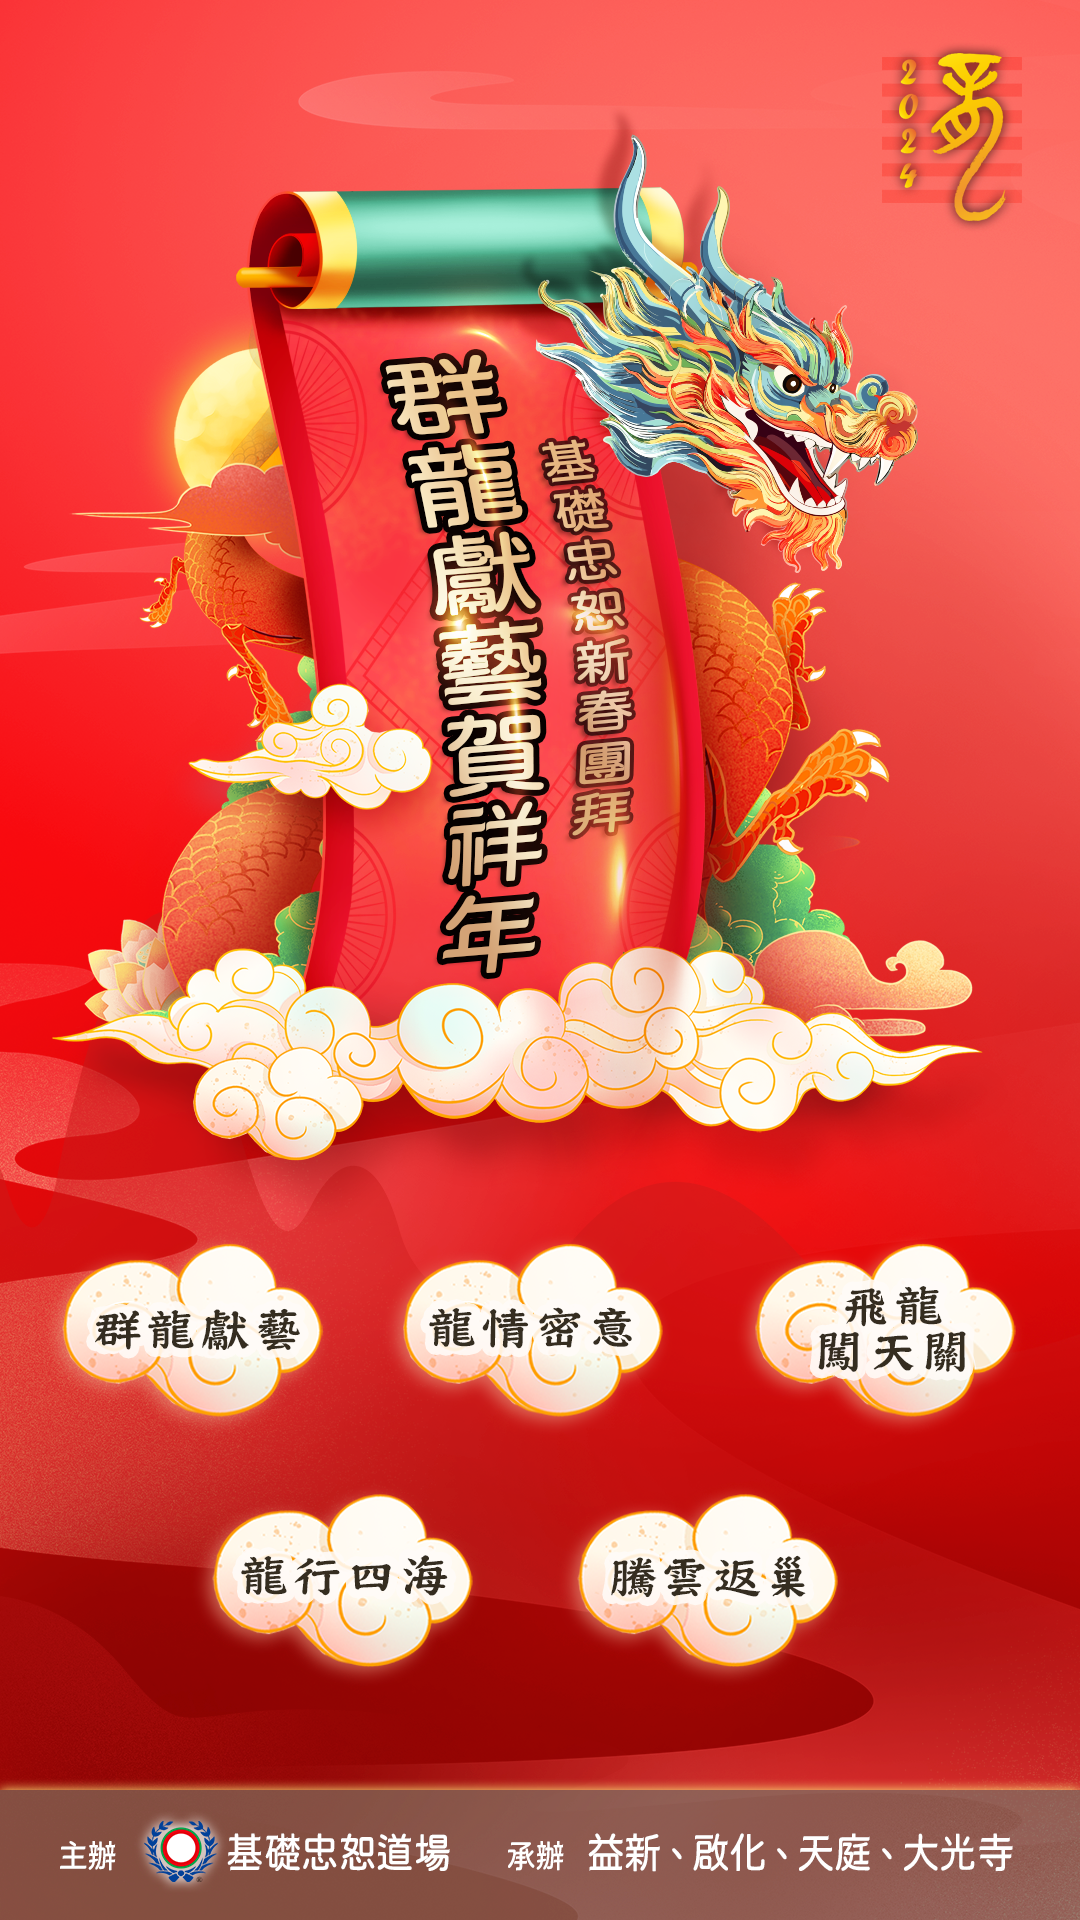
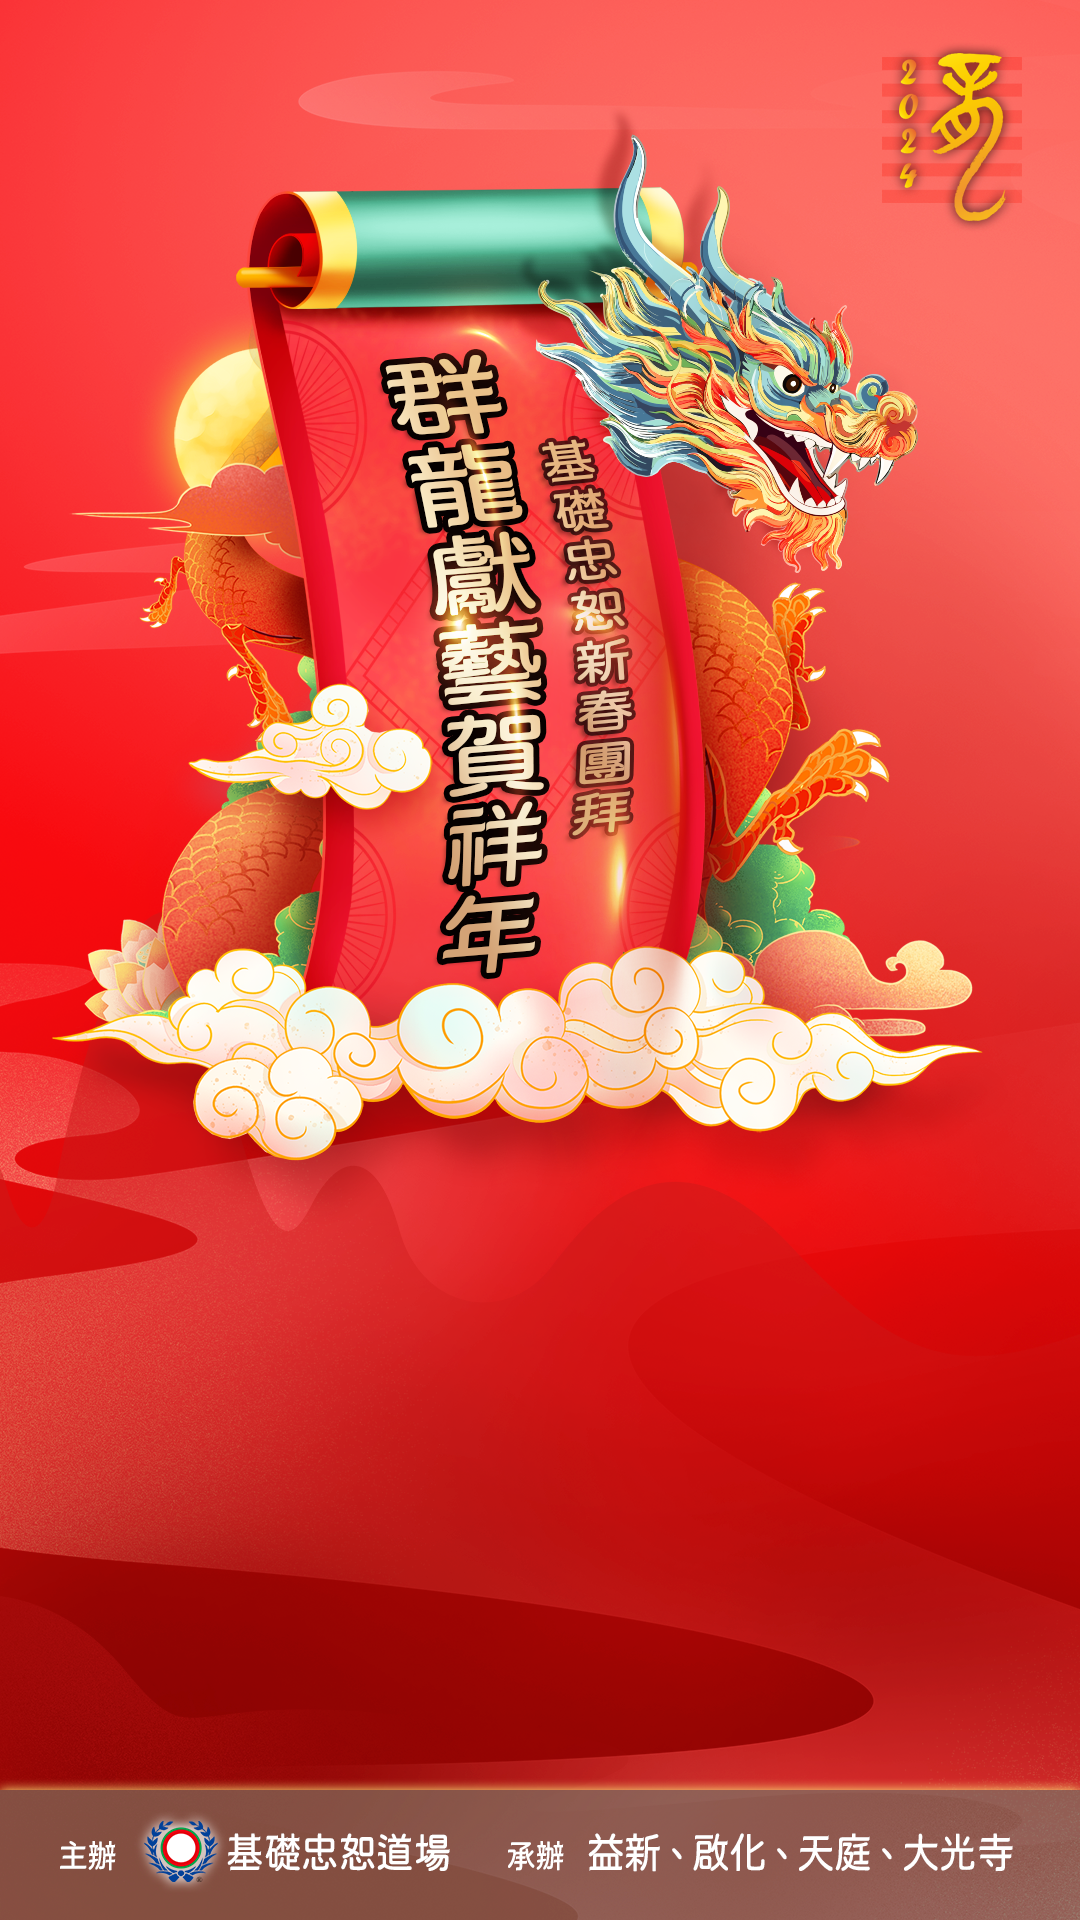
main page 2

diff --git a/index.html b/index.html
@@ -1,16 +1,35 @@
 <!DOCTYPE html>
-<!--
-To change this license header, choose License Headers in Project Properties.
-To change this template file, choose Tools | Templates
-and open the template in the editor.
--->
-<html>
-    <head>
-        <title>TODO supply a title</title>
-        <meta charset="UTF-8">
-        <meta name="viewport" content="width=device-width, initial-scale=1.0">
-    </head>
-    <body>
-      <img style={{width: 1080, height: 1920}} src="img/home_back.png" />
-    </body>
+<html lang="en">
+<head>
+    <meta charset="UTF-8">
+    <meta name="viewport" content="width=device-width, initial-scale=1.0">
+    <style>
+        body {
+            margin: 0;
+            padding: 0;
+            overflow: hidden;
+        }
+
+        .container {
+            width: 100vw;
+            height: 100vh;
+            display: flex;
+            align-items: center;
+            justify-content: center;
+            overflow: hidden;
+        }
+
+        .background-img {
+            width: 100%;
+            height: 100%;
+            object-fit: cover;
+        }
+    </style>
+    <title>群龍獻藝賀祥年</title>
+</head>
+<body>
+    <div class="container">
+        <img class="background-img" src="img/home_back.png" alt="背景圖片">
+    </div>
+</body>
 </html>
